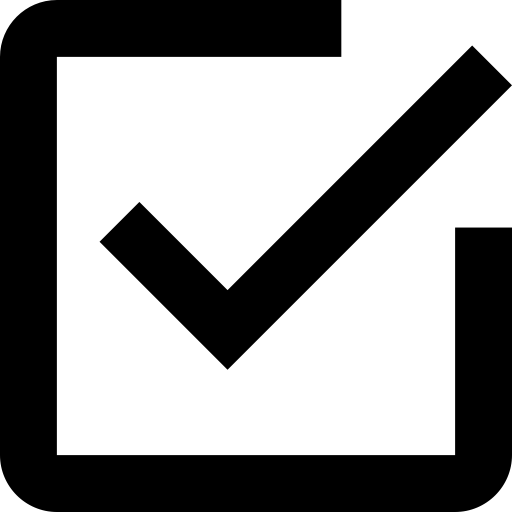
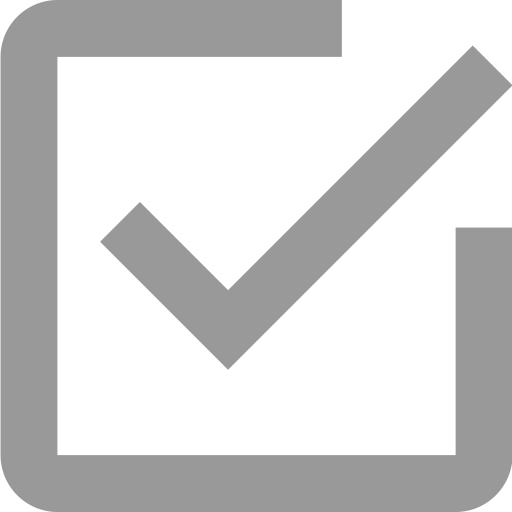
Todo 스타일 업데이트

diff --git a/webapp/src/screen/todo/presenter.tsx b/webapp/src/screen/todo/presenter.tsx
@@ -11,6 +11,9 @@ import {
 // model
 import Todo from '../../model/Todo';
 
+// style
+import color from '../../common/assets/style/color';
+
 interface TodoProps {
   todoTitle: string;
   todoList: Todo[];
@@ -33,7 +36,7 @@ const TodoView = (props: TodoProps) => {
           onPress={props.onPressCreateTodo}
         >
           <Image
-            style={{ flexShrink: 1 }}
+            style={{ width: 30, height: 30 }}
             resizeMode={'cover'}
             source={require('../../common/assets/images/button_add.png')}
           />
@@ -52,16 +55,13 @@ const TodoView = (props: TodoProps) => {
 const TodoItemView = (props: TodoProps, todoItem: Todo, index: number) => {
   return (
     <View key={index} style={styles.todoItemView}>
-      <TouchableOpacity
-        onPress={() => props.onPressTodoCheckBox(todoItem.id)}
-        // style={[
-        //   styles.todoItemCheckBox,
-        //   todoItem.completed && styles.todoItemCheckBoxComplete
-        // ]}
-      >
+      <TouchableOpacity onPress={() => props.onPressTodoCheckBox(todoItem.id)}>
         <Image
-          style={styles.checkBoxImg}
-          resizeMode={'cover'}
+          style={{
+            width: 25,
+            height: 25,
+            marginRight: 10
+          }}
           source={
             todoItem.completed
               ? require('../../common/assets/images/icon_check.png')
@@ -70,7 +70,14 @@ const TodoItemView = (props: TodoProps, todoItem: Todo, index: number) => {
         />
       </TouchableOpacity>
       <View>
-        <Text>{todoItem.title}</Text>
+        <Text
+          style={[
+            styles.todoItemText,
+            todoItem.completed && styles.todoItemTextComplete
+          ]}
+        >
+          {todoItem.title}
+        </Text>
       </View>
     </View>
   );
@@ -84,26 +91,28 @@ const styles = StyleSheet.create({
   },
   todoTextInput: {
     flex: 7,
-    borderColor: 'gray',
-    borderBottomWidth: 0.3,
-    paddingHorizontal: 10,
-    paddingVertical: 5
+    borderColor: color.gray,
+    borderBottomWidth: 0.2,
+    paddingHorizontal: 16,
+    paddingVertical: 10,
+    fontSize: 18
   },
   todoSubmitButton: {
     display: 'flex',
-    flex: 2,
+    flex: 1.5,
     position: 'relative',
-    backgroundColor: 'gray',
-    alignItems: 'center'
+    backgroundColor: color.mild_green,
+    alignItems: 'center',
+    justifyContent: 'center'
   },
   // todoTitle
   todoTitleView: {
-    borderBottomColor: 'gray',
-    borderBottomWidth: 1,
+    borderBottomColor: color.gray,
+    borderBottomWidth: 1.5,
     paddingVertical: 10
   },
   todoTitle: {
-    color: 'gray',
+    color: color.gray,
     fontSize: 14,
     paddingLeft: 10
   },
@@ -118,21 +127,18 @@ const styles = StyleSheet.create({
     flexDirection: 'row',
     paddingVertical: 16,
     paddingHorizontal: 10,
-    borderBottomColor: 'gray',
+    borderBottomColor: color.gray,
     borderBottomWidth: 0.5,
     alignItems: 'center'
   },
-  checkBoxImg: {
-    width: 25,
-    height: 25,
-    marginRight: 10
+  todoItemText: {
+    fontSize: 18
+  },
+  todoItemTextComplete: {
+    color: '#999999',
+    textDecorationLine: 'line-through',
+    textDecorationStyle: 'solid'
   }
-  // todoItemCheckBox: {
-  //   backgroundColor: 'black'
-  // },
-  // todoItemCheckBoxComplete: {
-  //   backgroundColor: 'green'
-  // }
 });
 
 export default TodoView;

diff --git a/webapp/src/screen/main/presenter.tsx b/webapp/src/screen/main/presenter.tsx
@@ -9,6 +9,9 @@ import Auth from '../auth';
 import Todo from '../todo';
 import Timeline from '../timeline';
 
+// style
+import color from '../../common/assets/style/color';
+
 interface MainProps {
   isLoggedIn: boolean;
 }
@@ -48,7 +51,12 @@ const PrivateRoutes = (props: any) => (
 
 const mainTab = (props: any) => {
   return (
-    <ScrollableTabView style={styles.tabView}>
+    <ScrollableTabView
+      style={styles.tabView}
+      tabBarUnderlineStyle={styles.tabBarUnderlineStyle}
+      tabBarActiveTextColor={color.mild_green}
+      tabBarInactiveTextColor={color.gray}
+    >
       <Todo tabLabel="Todo" />
       <Timeline tabLabel="Timeline" />
     </ScrollableTabView>
@@ -66,6 +74,9 @@ const styles = StyleSheet.create({
         paddingTop: 0
       }
     )
+  },
+  tabBarUnderlineStyle: {
+    backgroundColor: color.mild_green
   }
 });
 

diff --git a/webapp/src/common/assets/style/color.ts b/webapp/src/common/assets/style/color.ts
@@ -1,0 +1,6 @@
+const color = {
+  gray: '#999999',
+  mild_green: '#2EC4B6'
+};
+
+export default color;
